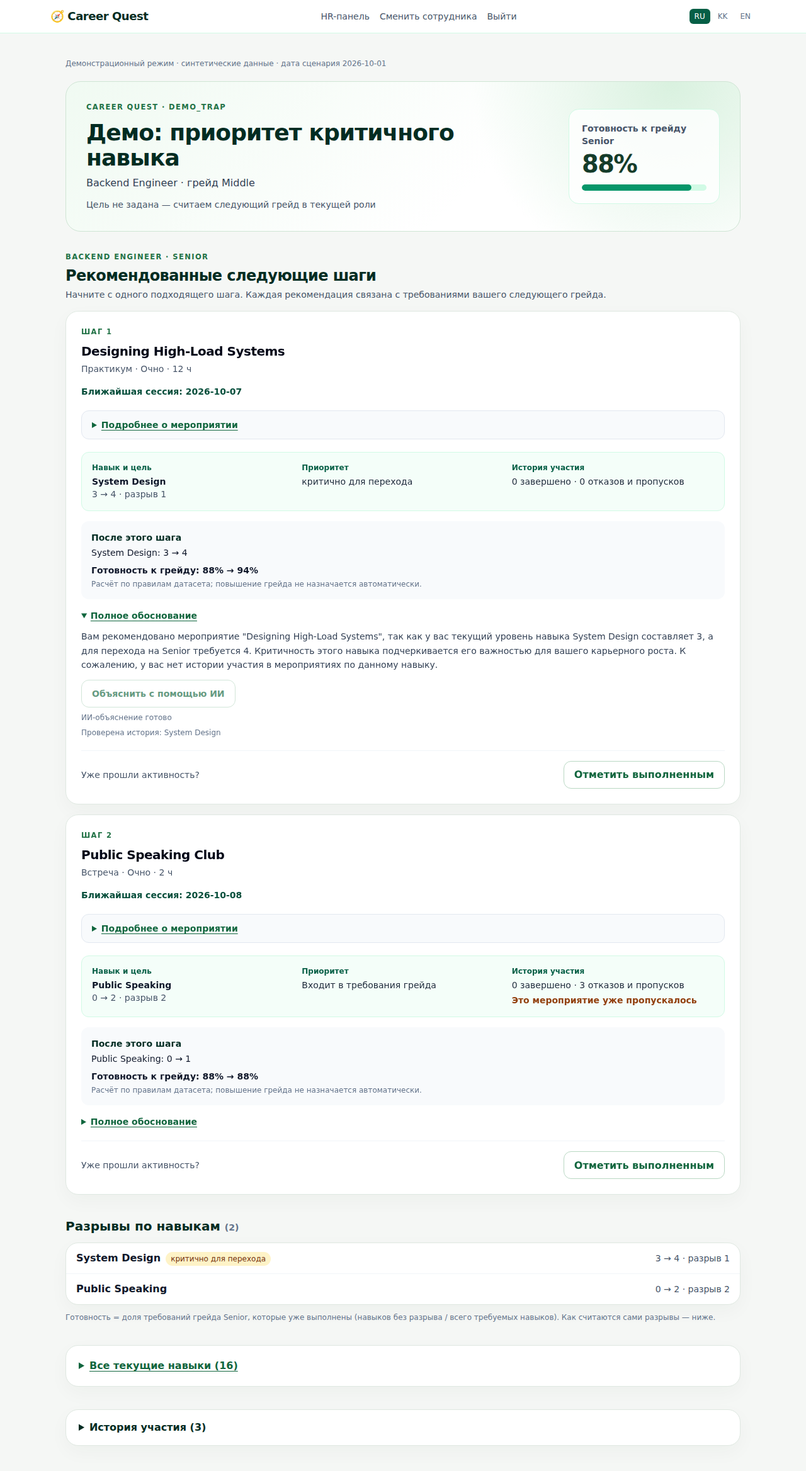
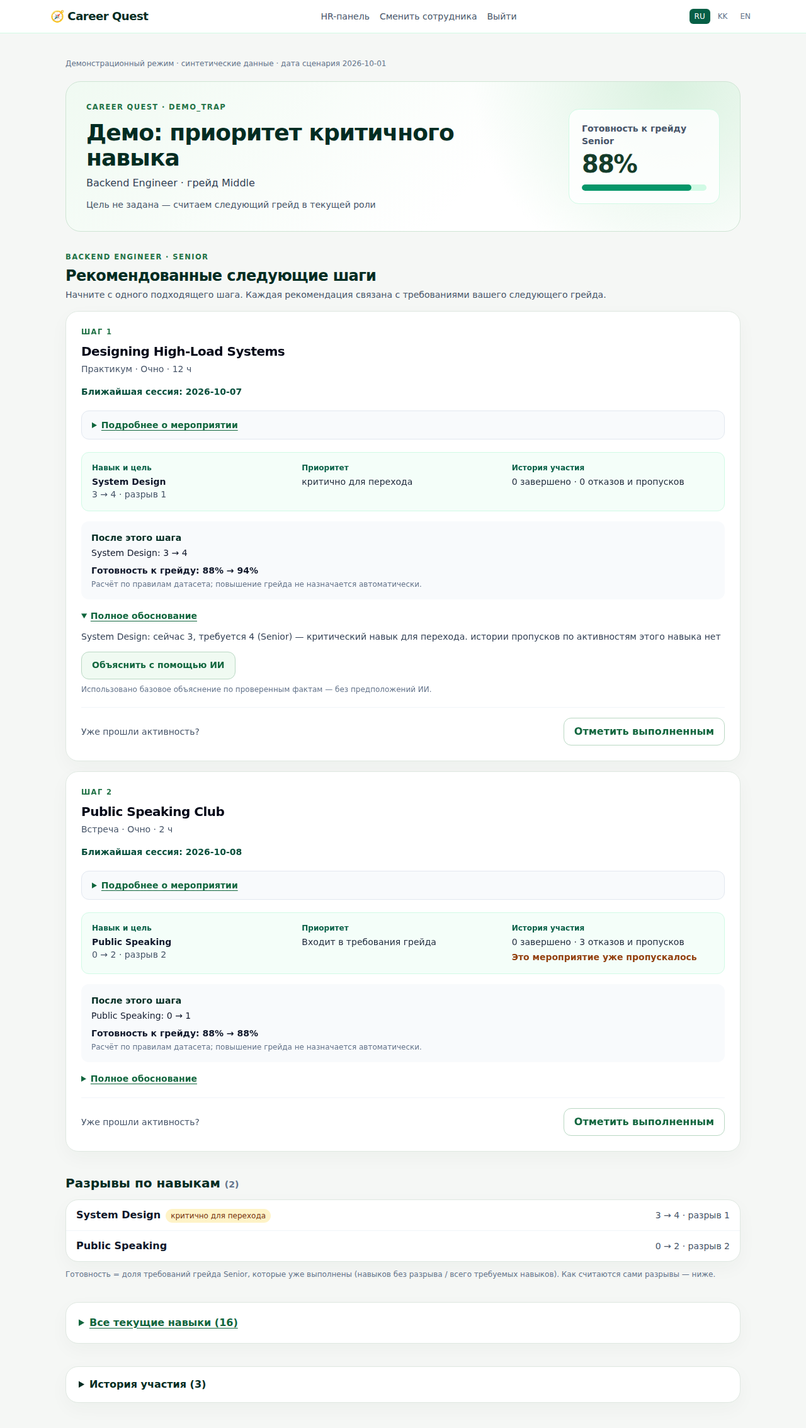
проверил ИИ-объяснения и добавил реальные примеры

diff --git a/backend/app/explain.py b/backend/app/explain.py
@@ -117,6 +117,11 @@ async def _llm_agentic_rationale(
 
         trace = []
         history_checked = set()
+        alternatives_checked = set()
+        alternatives_required = {
+            skill_id for skill_id, skill in skills_by_id.items()
+            if any(skill["history"].get(status, 0) for status in ("declined", "no_show", "dropped"))
+        }
 
         def call_tool(name: str, args: dict):
             s = skills_by_id.get(args.get("skill_id"))
@@ -126,6 +131,7 @@ async def _llm_agentic_rationale(
                 history_checked.add(s["skill_id"])
                 return s["history"]
             if name == "get_alternative_events":
+                alternatives_checked.add(s["skill_id"])
                 return s.get("alternative_events", [])
             return {"error": "unknown tool"}
 
@@ -144,6 +150,7 @@ async def _llm_agentic_rationale(
                     "Если были пропуски или отказы, вызови get_alternative_events и сравни доступные варианты. "
                     "Объясни три фактора: явно назови текущий и требуемый уровень навыка, критичность и историю. "
                     "Если сумма ВСЕХ счётчиков истории нулевая, скажи, что истории нет. "
+                    "Отсутствие записей не доказывает отсутствие опыта и не означает препятствий росту. "
                     "Если хотя бы один счётчик положителен, данные ЕСТЬ: точно перечисли завершения и пропуски. "
                     "Пропуски не означают отсутствие данных. Не делай выводов о мотивации, причинах отказов или личности. "
                     "Критичность относится к НАВЫКУ, а не к мероприятию: обучение добровольное, "
@@ -170,11 +177,17 @@ async def _llm_agentic_rationale(
                 remaining = deadline - time.monotonic()
                 if remaining <= 0.5:
                     return None
+                if history_checked != set(skills_by_id):
+                    tool_choice = "required"
+                elif alternatives_required - alternatives_checked:
+                    tool_choice = {"type": "function", "function": {"name": "get_alternative_events"}}
+                else:
+                    tool_choice = "auto"
                 resp = await client.chat.completions.create(
                     model=os.environ.get("OPENAI_MODEL", "gpt-4o-mini"),
                     messages=messages,
                     tools=tools,
-                    tool_choice="required" if not history_checked else "auto",
+                    tool_choice=tool_choice,
                     max_tokens=500,
                     timeout=min(remaining, 5.0),
                 )
@@ -196,7 +209,9 @@ async def _llm_agentic_rationale(
                         })
                     continue
                 content = (msg.content or "").strip()
-                if history_checked == set(skills_by_id) and content and resp.choices[0].finish_reason == "stop":
+                if (history_checked == set(skills_by_id)
+                        and alternatives_required <= alternatives_checked
+                        and content and resp.choices[0].finish_reason == "stop"):
                     return {"text": content, "tool_calls": trace}
                 return None
         return None
@@ -231,6 +246,8 @@ async def build_rationale_async(
     api_key = os.environ.get("OPENAI_API_KEY")
     if not api_key:
         return result
+    if any(not any(skill["history"].values()) for skill in step["skills"]):
+        return {**result, "fallback_reason": "insufficient_history"}
     now = time.monotonic()
     cache_key = hashlib.sha256(json.dumps(
         [target_grade, step, lang, os.environ.get("OPENAI_MODEL", "gpt-4o-mini"), api_key], sort_keys=True

diff --git a/backend/tests/test_explain.py b/backend/tests/test_explain.py
@@ -133,6 +133,9 @@ def test_successful_tools_are_traced_cached_and_invalidated_by_changed_facts(mon
     tool_message = ChatCompletionMessage(role="assistant", content=None, tool_calls=[{
         "id": "history_call", "type": "function",
         "function": {"name": "get_skill_history", "arguments": '{"skill_id":"SK_X"}'},
+    }, {
+        "id": "alternatives_call", "type": "function",
+        "function": {"name": "get_alternative_events", "arguments": '{"skill_id":"SK_X"}'},
     }])
     final_message = ChatCompletionMessage(role="assistant", content="Grounded explanation")
 
@@ -143,7 +146,10 @@ def test_successful_tools_are_traced_cached_and_invalidated_by_changed_facts(mon
     fake_client(monkeypatch, create)
     answer = build_rationale("Senior", _STEP, "en", "")
     assert answer["source"] == "llm-agentic"
-    assert answer["tool_calls"] == [{"tool": "get_skill_history", "skill_id": "SK_X"}]
+    assert answer["tool_calls"] == [
+        {"tool": "get_skill_history", "skill_id": "SK_X"},
+        {"tool": "get_alternative_events", "skill_id": "SK_X"},
+    ]
     assert create.call_count == 2
     assert build_rationale("Senior", _STEP, "en", "")["text"] == answer["text"]
     assert create.call_count == 2
@@ -155,3 +161,54 @@ def test_successful_tools_are_traced_cached_and_invalidated_by_changed_facts(mon
 def test_page_template_does_not_call_provider_even_when_configured(monkeypatch):
     fake_client(monkeypatch, AsyncMock(side_effect=AssertionError("unexpected API request")))
     assert build_rationale("Senior", _STEP, "ru", "", use_llm=False)["source"] == "template"
+
+
+def test_ai_must_check_alternatives_when_history_contains_avoidance(monkeypatch):
+    from openai.types.chat import ChatCompletionMessage
+
+    history_message = ChatCompletionMessage(role="assistant", content=None, tool_calls=[{
+        "id": "history_only", "type": "function",
+        "function": {"name": "get_skill_history", "arguments": '{"skill_id":"SK_X"}'},
+    }])
+    final_message = ChatCompletionMessage(role="assistant", content="Unchecked recommendation")
+    create = AsyncMock(side_effect=[
+        SimpleNamespace(choices=[SimpleNamespace(message=message, finish_reason="stop")])
+        for message in (history_message, final_message)
+    ])
+    fake_client(monkeypatch, create)
+    answer = build_rationale("Senior", _STEP, "en", "")
+    assert answer["source"] == "template"
+    assert answer["tool_calls"] == []
+    assert create.call_args_list[1].kwargs["tool_choice"] == {
+        "type": "function", "function": {"name": "get_alternative_events"},
+    }
+
+
+def test_ai_does_not_require_alternatives_without_avoidance(monkeypatch):
+    from openai.types.chat import ChatCompletionMessage
+
+    step = {**_STEP, "skills": [{**_STEP["skills"][0],
+                              "history": {"completed": 1, "declined": 0, "no_show": 0, "dropped": 0}}]}
+    history_message = ChatCompletionMessage(role="assistant", content=None, tool_calls=[{
+        "id": "history_only", "type": "function",
+        "function": {"name": "get_skill_history", "arguments": '{"skill_id":"SK_X"}'},
+    }])
+    final_message = ChatCompletionMessage(role="assistant", content="History checked")
+    create = AsyncMock(side_effect=[
+        SimpleNamespace(choices=[SimpleNamespace(message=message, finish_reason="stop")])
+        for message in (history_message, final_message)
+    ])
+    fake_client(monkeypatch, create)
+    assert build_rationale("Senior", step, "en", "")["source"] == "llm-agentic"
+
+
+def test_absent_history_uses_facts_without_speculative_ai_inferences(monkeypatch):
+    create = AsyncMock(side_effect=AssertionError("unexpected API request"))
+    fake_client(monkeypatch, create)
+    step = {**_STEP, "skills": [{**_STEP["skills"][0],
+                              "history": {"completed": 0, "declined": 0, "no_show": 0, "dropped": 0}}]}
+    answer = build_rationale("Senior", step, "en", "")
+    assert answer["source"] == "template"
+    assert answer["fallback_reason"] == "insufficient_history"
+    assert "now 1" in answer["facts"]
+    create.assert_not_called()

diff --git a/backend/app/i18n.py b/backend/app/i18n.py
@@ -29,7 +29,7 @@ _T: dict[str, dict[str, str]] = {
     "ai_explain": {"ru": "Объяснить с помощью ИИ", "kk": "ЖИ көмегімен түсіндіру", "en": "Explain with AI"},
     "ai_loading": {"ru": "Проверяем историю и варианты…", "kk": "Тарих пен нұсқалар тексерілуде…", "en": "Checking history and alternatives…"},
     "ai_done": {"ru": "ИИ-объяснение готово", "kk": "ЖИ түсіндірмесі дайын", "en": "AI explanation ready"},
-    "ai_fallback": {"ru": "ИИ сейчас недоступен. Объяснение по проверенным фактам сохранено.", "kk": "ЖИ қазір қолжетімсіз. Тексерілген деректерге негізделген түсіндірме сақталды.", "en": "AI is unavailable right now. The explanation based on verified facts is still available."},
+    "ai_fallback": {"ru": "Использовано базовое объяснение по проверенным фактам — без предположений ИИ.", "kk": "ЖИ болжамдарынсыз, тексерілген деректерге негізделген негізгі түсіндірме қолданылды.", "en": "Using the baseline explanation based on verified facts, without AI assumptions."},
     "ai_no_key": {"ru": "Базовое объяснение доступно без внешних сервисов.", "kk": "Негізгі түсіндірме сыртқы сервистерсіз қолжетімді.", "en": "The baseline explanation works without external services."},
     "get_skill_history": {"ru": "Проверена история", "kk": "Тарих тексерілді", "en": "History checked"},
     "get_alternative_events": {"ru": "Проверены альтернативы", "kk": "Балама нұсқалар тексерілді", "en": "Alternatives checked"},

diff --git a/backend/tests/test_engine.py b/backend/tests/test_engine.py
@@ -134,6 +134,32 @@ def test_completed_event_not_recommended_again():
     assert target_event not in after_event_ids or target_event == "EV_036"
 
 
+def test_history_changes_event_choice_without_changing_skill_gap():
+    store = make_store()
+    target = store.role_profiles[("Backend Engineer", "Senior")]
+    employee = {
+        "employee_id": "HISTORY_CHOICE", "full_name": "History Choice",
+        "role": "Backend Engineer", "grade": "Middle",
+        "skills": {**target["required_skills"], "SK_SYSTEM_DESIGN": 3},
+    }
+    store.add_employees([employee])
+    event = {
+        **store.events["EV_006"], "event_id": "CHOICE_A",
+        "develops_skills": [{"skill_id": "SK_SYSTEM_DESIGN", "gain": 1, "max_level": 4}],
+    }
+    store.events = {"CHOICE_A": event, "CHOICE_B": {**event, "event_id": "CHOICE_B"}}
+    before = engine.recommend(store, employee["employee_id"])
+    assert before["steps"][0]["event"]["event_id"] == "CHOICE_A"
+    store.add_history([{
+        "employee_id": employee["employee_id"], "event_id": "CHOICE_A",
+        "date": "2026-09-01", "status": "declined",
+    }])
+    after = engine.recommend(store, employee["employee_id"])
+    assert after["gaps"] == before["gaps"]
+    assert after["steps"][0]["event"]["event_id"] == "CHOICE_B"
+    assert after["steps"][0]["skills"][0]["history"]["declined"] == 1
+
+
 def test_skill_gain_capped_at_max_level():
     store = make_store()
     employee_id = "E0001"

diff --git a/docs/AUDIT.md b/docs/AUDIT.md
@@ -1,0 +1,38 @@
+# Контрольный разбор по критериям ТЗ
+
+Это самопроверка реализации, а не оценка от организаторов и не прогноз итогового
+балла. Проверка выполнена по коду, тестам, исходному PDF и живым ответам приложения.
+
+| Критерий и вес | Возможная причина снизить оценку | Что проверено / исправлено | Что остаётся |
+|---|---|---|---|
+| Соответствие задаче — 25 | История может быть лишь украшением объяснения, а не фактором выбора | Новый `test_history_changes_event_choice_without_changing_skill_gap`: при неизменном профиле отказ меняет выбранное событие с A на B | История меняет выбор активности, но не вес навыка; это явно описано |
+| Техническая реализация — 25 | Наличие функции в схеме не доказывает её использование моделью | Вызов альтернатив принудителен после истории отказов; текст без обязательных инструментов отклоняется; тесты и [живой пример](AI_EXAMPLES.md) | Ранжирование детерминированное; модель объясняет, а не принимает карьерные решения. Свободный текст не имеет полной семантической валидации |
+| README и воспроизводимость — 25 | Красивый скриншот невозможно проверить без ключа | [JSON примеров](ai-examples.json), честные метки источника, скрипт оценки, команды Docker, фиксированные входные файлы | Генеративную формулировку без ключа воспроизвести нельзя; вычислительное ядро воспроизводится полностью |
+| Ценность — 15 | Заявлен рост вовлечённости без измерений | В README механизмы отделены от гипотез; показаны изменение навыка, прогноз и HR-пробелы | Нет пилота и измеренного бизнес-эффекта; самоотметка выполнения условна |
+| Потенциал и оригинальность — 10 | Обычная система правил представлена как уникальная HR-платформа | Заявленная особенность ограничена проверяемым циклом выбора, прогноза и результата | Нет оснований заявлять превосходство над коммерческими продуктами; LMS, обратная связь и БД — план |
+
+## Дополнительная находка на живом ИИ
+
+При нулевой истории модель сделала неподтверждённый вывод об отсутствии практики.
+Усиление промпта не исключило повторение. Вместо дальнейшего подбора удачной
+формулировки добавлена явная политика: без истории по навыку — только базовое
+объяснение, без обращения к модели. Уровень, требования, критичность и прогноз
+при этом остаются доступны. См. [пример и границы политики](AI_EXAMPLES.md).
+
+На профиле с реальной историей подтверждены оба инструмента и корректные числа
+в одном сохранённом ответе. Это не заменяет полноценный набор оценок AI-текста.
+
+## Итог проверки
+
+- 42 автоматических теста проходят в Docker с пустым ключом.
+- 439 рекомендаций на исходном наборе проходят проверки доступности и прироста.
+- У 179 профилей с шагами прогноз первого шага совпадает с выполнением.
+- Сохранены отдельные примеры генеративного и базового объяснения, с JSON и скриншотами.
+- Настоящие ограничения: память одного процесса, публичный демодоступ, отсутствие
+  промышленной аттестации навыков и полного каталога переводов (названия активностей
+  и навыков остаются на языке исходных данных).
+
+Главный оставшийся риск оценки — глубина AI-части относительно ожиданий жюри.
+Мы не скрываем, что AI — слой объяснения с инструментами над проверяемым движком,
+а не обученная модель ранжирования. Менять эту архитектуру в конце ради ярлыка
+означало бы потерять воспроизводимость без доказанного улучшения рекомендаций.

diff --git a/docs/AI_EXAMPLES.md b/docs/AI_EXAMPLES.md
@@ -1,0 +1,64 @@
+# Примеры объяснений: ИИ и безопасный базовый режим
+
+Это снимки **работающего приложения**, не макеты и не тексты, написанные вручную.
+Зафиксированы 23 сентября 2026 года; дата синтетического сценария — 1 октября 2026.
+[Ответы API приложения в JSON](ai-examples.json) содержат текст, источник,
+вычисленные факты и названия выполненных инструментов. Это не сырой лог провайдера
+и не независимая оценка качества модели. Ключи и cookie в артефакт не входят.
+
+## 1. Есть история: ИИ проверяет альтернативы
+
+**E0005, EV_007, русский язык.** Исходные факты: System Design 2 при требовании 4
+для Senior; навык критичен; по истории одно завершение и один пропуск.
+
+В зафиксированном ответе модель:
+
+- верно указала текущий и требуемый уровни, критичность и обе записи истории;
+- вызвала `get_skill_history` и `get_alternative_events`;
+- назвала доступную альтернативу System Design Fundamentals в онлайн-формате.
+
+Источник — `llm-agentic`, время этого локального запроса — **4,537 с**.
+Это единичный замер, не гарантия времени каждого ответа и не доказательство
+безошибочности модели. Конкретная формулировка при повторном запросе может отличаться.
+
+![Реальное ИИ-объяснение с историей и альтернативой](screenshots/ai-alternatives-ru.png)
+
+**Повторить:** войти как HR → `/employee/E0005?lang=ru` → карточка
+Architecture Review Circle → «Полное обоснование» → «Объяснить с помощью ИИ».
+Нужен настроенный ключ; без него останется базовый режим. Для API после входа
+из [инструкции](API.md):
+
+```bash
+curl -fsS -b "$COOKIE_FILE" -H "X-CSRF-Token: $CSRF_TOKEN" -X POST \
+  'http://localhost:8000/api/employees/E0005/explain/EV_007?lang=ru' | python3 -m json.tool
+```
+
+Профиль должен быть в начальном состоянии: если активность уже завершили,
+рекомендация может измениться. Перезапуск демо восстанавливает исходный датасет.
+
+## 2. Истории нет: не подменяем пробелы предположениями
+
+**DEMO_TRAP, EV_006.** System Design 3 при требовании 4; критичность известна,
+но записей участия по этому навыку нет. Рекомендация и прогноз 88% → 94% доступны.
+
+В контрольном прогоне до исправления модель неправомерно связала отсутствие
+записей с отсутствием практики. Поэтому, если хотя бы по одному навыку шага
+вся история нулевая, приложение **не вызывает модель** и оставляет объяснение
+по фактам. Отсутствие данных не говорит о способностях или мотивации человека.
+
+В JSON это явно видно: `source: template`,
+`fallback_reason: insufficient_history`, `tool_calls: []`.
+Такой ответ не выдаётся за генеративный ИИ. Политика покрыта регрессионным тестом.
+
+![Базовое объяснение при отсутствии истории, без предположений модели](screenshots/ai-critical-ru.png)
+
+**Повторить:** загрузить [демонстрационные файлы](demo/) через HR-панель и открыть
+`/employee/DEMO_TRAP?lang=ru`. С ключом запрос объяснения вернёт указанный безопасный
+режим; без ключа базовое объяснение работает изначально.
+
+## Что скриншот доказывает и чего не доказывает
+
+Скриншот показывает внешний вид конкретного результата. JSON позволяет прочитать
+тот же пример без распознавания изображения, а API и тесты позволяют проверить
+механизм. Ни один удачный скриншот не заменяет проверку на других профилях,
+сравнение с базовым алгоритмом или оценку фактической точности свободного текста.

diff --git a/docs/REVIEW.md b/docs/REVIEW.md
@@ -39,12 +39,15 @@
 
 ## Границы результата
 
-Финальная проверка: 38 тестов прошли в Docker без сети и с пустым API-ключом;
+Финальная проверка: 42 теста прошли в Docker без сети и с пустым API-ключом;
 Ruff не обнаружил нарушений. Браузерная проверка включала RU/KK/EN, мобильную
 ширину 390 px, вход через формы и запрет доступа сотрудника к чужим данным.
 В локальном прогоне страница демонстрационного сотрудника открылась за 26 мс,
 HR — за 352 мс; это замеры на машине разработки, не нагрузочный тест.
 С ключом проверены реальные ответы ИИ на трёх языках, без ключа — шаблонный режим.
+После контрольного разбора добавлены обязательная проверка альтернатив при отказах
+и базовый режим при отсутствии истории. Актуальные примеры этих сценариев на русском —
+в [AI_EXAMPLES.md](AI_EXAMPLES.md), причины изменений — в [AUDIT.md](AUDIT.md).
 
 Данные и демонстрационные пароли синтетические и опубликованы для жюри.
 Перед реальным пилотом нужны отключение деморежима, SSO, постоянная БД, аудит,

diff --git a/docs/API.md b/docs/API.md
@@ -17,16 +17,19 @@ curl -fsS -b "$COOKIE_FILE" -H "X-CSRF-Token: $CSRF_TOKEN" \
 curl -fsS -b "$COOKIE_FILE" http://localhost:8000/api/employees/DEMO_TRAP | python3 -m json.tool
 ```
 
-Запрос ИИ-объяснения первого шага демонстрационного профиля:
+Запрос ИИ-объяснения шага сотрудника с историей участия:
 
 ```bash
 curl -fsS -b "$COOKIE_FILE" -H "X-CSRF-Token: $CSRF_TOKEN" -X POST \
-  'http://localhost:8000/api/employees/DEMO_TRAP/explain/EV_006?lang=ru' | python3 -m json.tool
+  'http://localhost:8000/api/employees/E0005/explain/EV_007?lang=ru' | python3 -m json.tool
 ```
 
 Ответ содержит `text`, `facts`, `source` (`template` или `llm-agentic`) и список
 `tool_calls`. Без ключа возвращается базовое объяснение. Для изменившегося или
 недоступного шага сервер возвращает 409: нужно заново запросить рекомендации.
+Если по навыку отсутствует история, даже с ключом возвращается `source: template`
+и `fallback_reason: insufficient_history`, без предположений модели.
+Такой пример — `DEMO_TRAP / EV_006`. [Сохранённые ответы](ai-examples.json).
 
 Демонстрационные логин и пароль приведены только для синтетического стенда.
 Вне деморежима используйте настроенные учётные данные. После входа CSRF-токен
